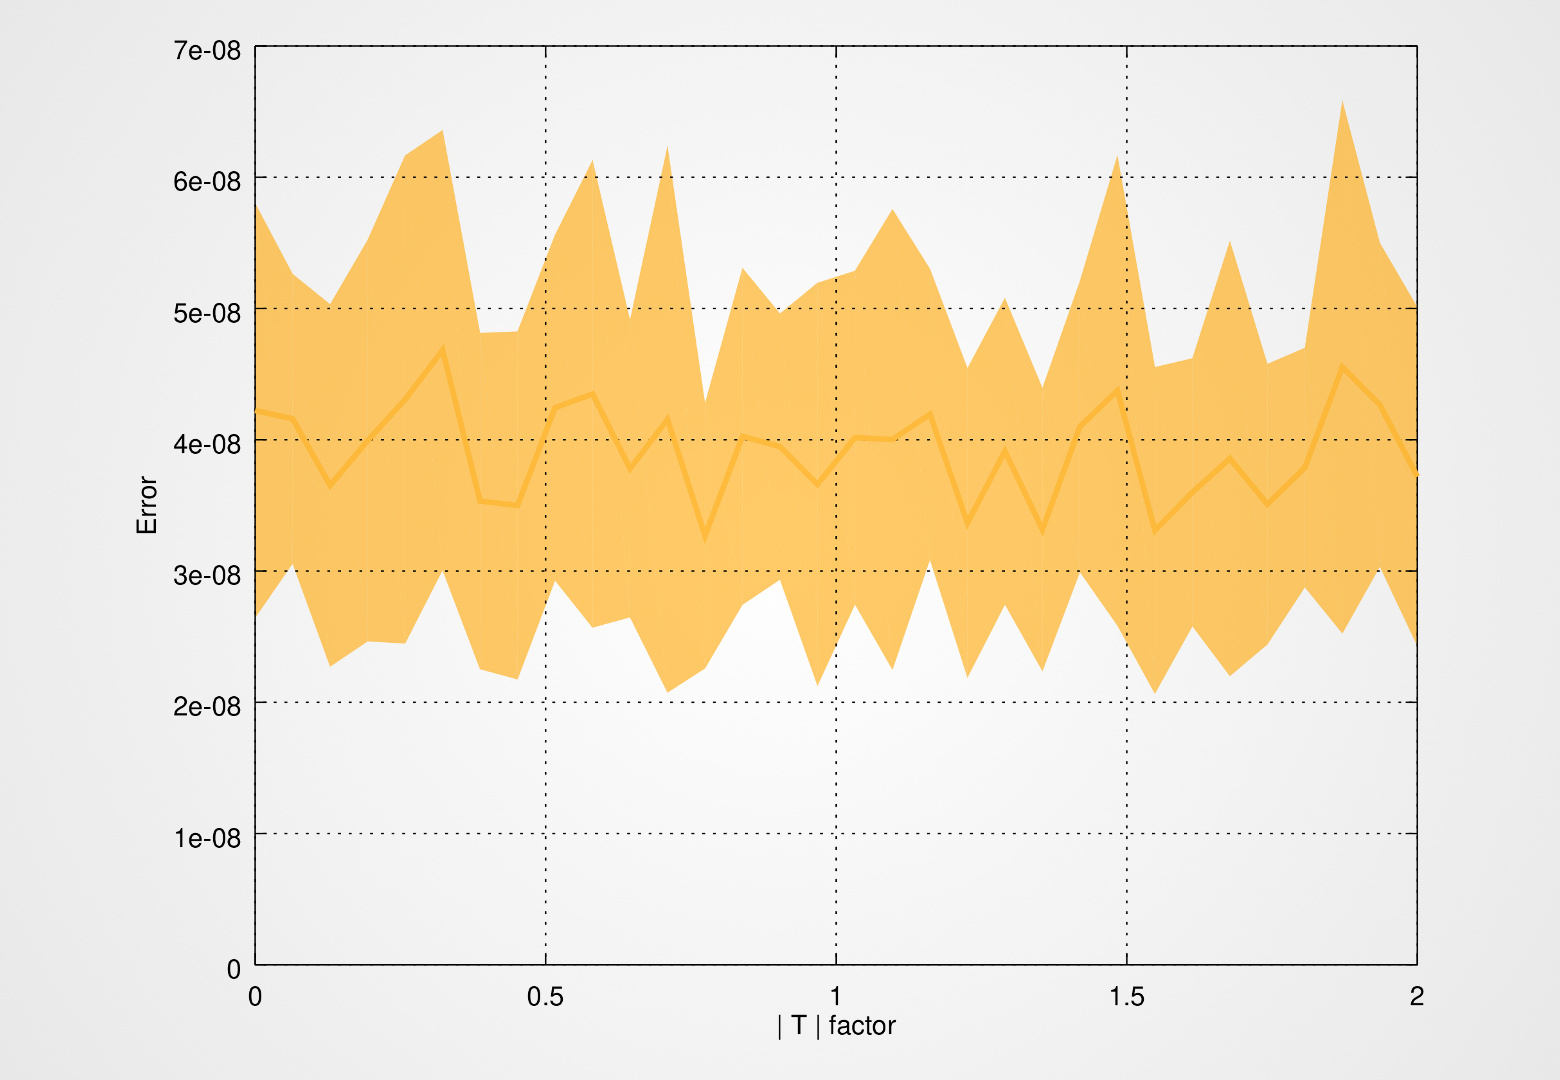
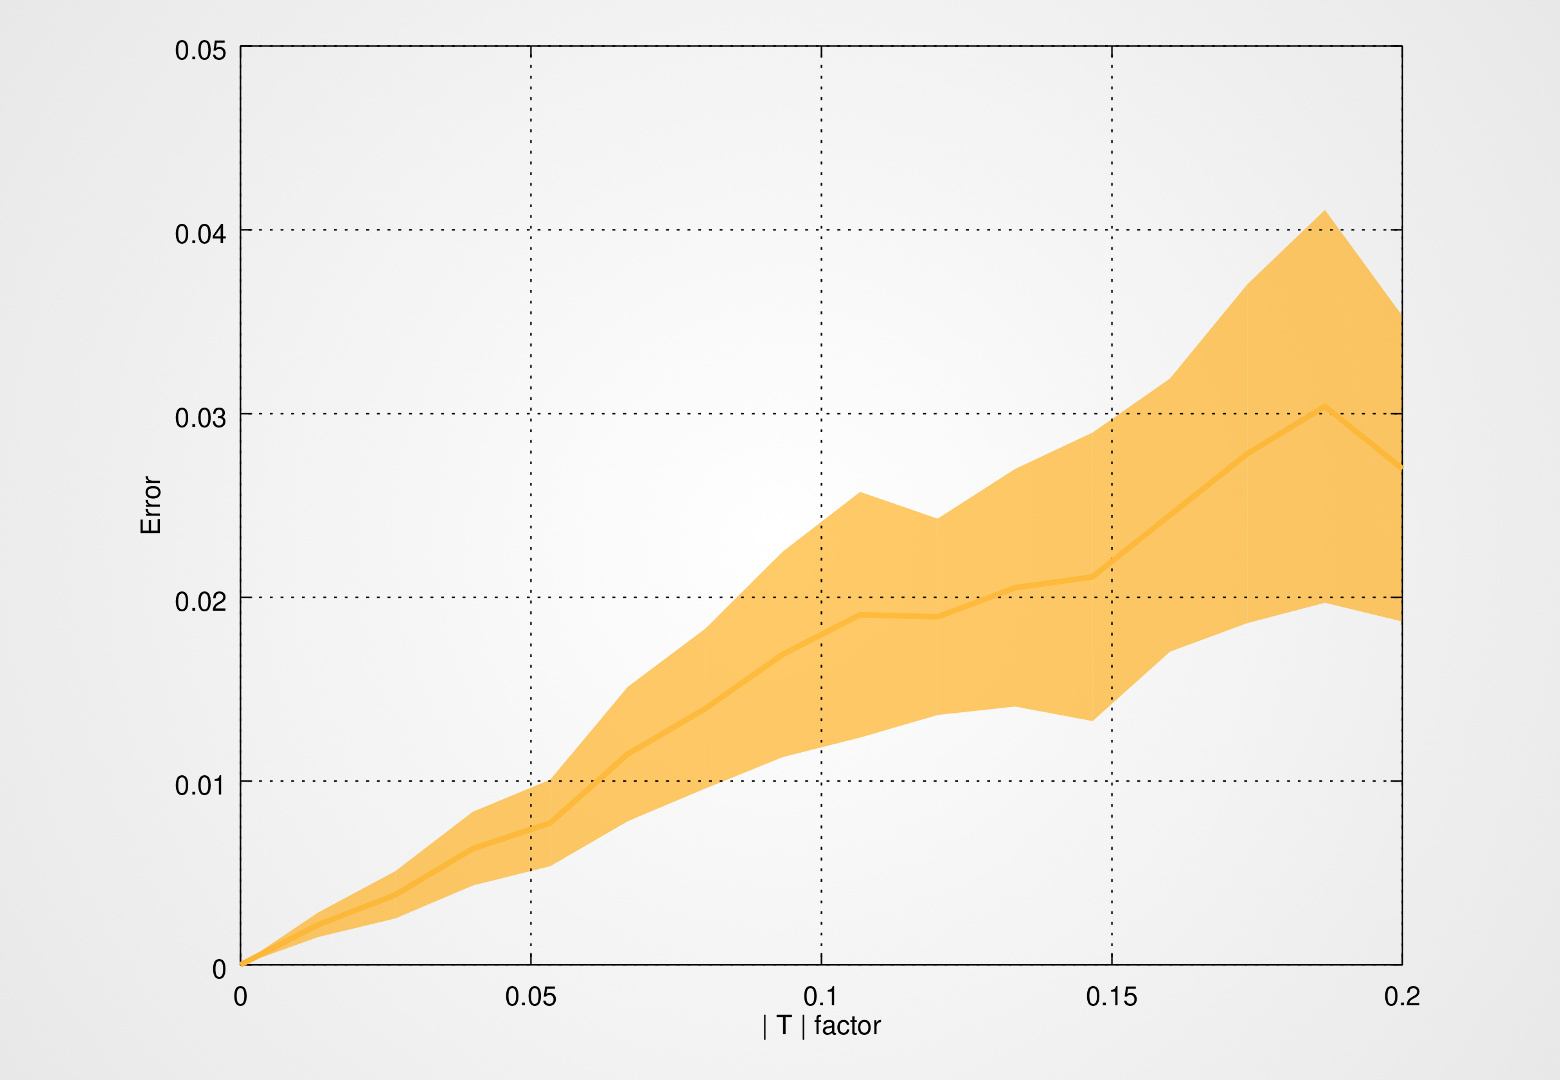
Correction of the plot on noise experiment

diff --git a/src/algorithm/algorithm_test_noise.m b/src/algorithm/algorithm_test_noise.m
@@ -40,7 +40,7 @@
     function algorithm_test_noise( sc_count, sc_amount, sc_output )
 
         % compose noise amplitude array %
-        sc_noise = linspace( 0.0, 2.0, 32 );
+        sc_noise = linspace( 0.0, 0.2, 16 );
 
         % reset plot array %
         sc_rot = zeros( length( sc_noise ), 2 );
@@ -75,8 +75,8 @@
                 sc_cambr = algorithm_randrot();
 
                 % adding noise to scene %
-                sc_scene_na = sc_scene; + ( rand( sc_count, 3 ) - 0.5 ) * sc_noise( sc_amplitude ) * sc_trans;
-                sc_scene_nb = sc_scene; + ( rand( sc_count, 3 ) - 0.5 ) * sc_noise( sc_amplitude ) * sc_trans;
+                sc_scene_na = sc_scene + ( rand( sc_count, 3 ) - 0.5 ) * sc_noise( sc_amplitude ) * sc_trans;
+                sc_scene_nb = sc_scene + ( rand( sc_count, 3 ) - 0.5 ) * sc_noise( sc_amplitude ) * sc_trans;
 
                 % compute directions - features %
                 sc_camad = algorithm_project( sc_camac, sc_camar, sc_scene_na );
